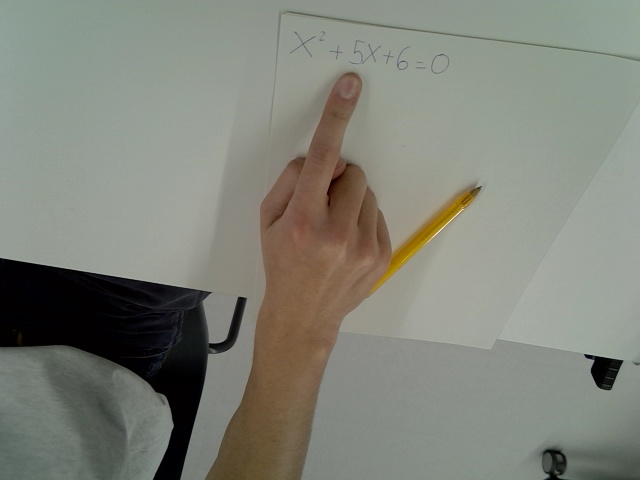
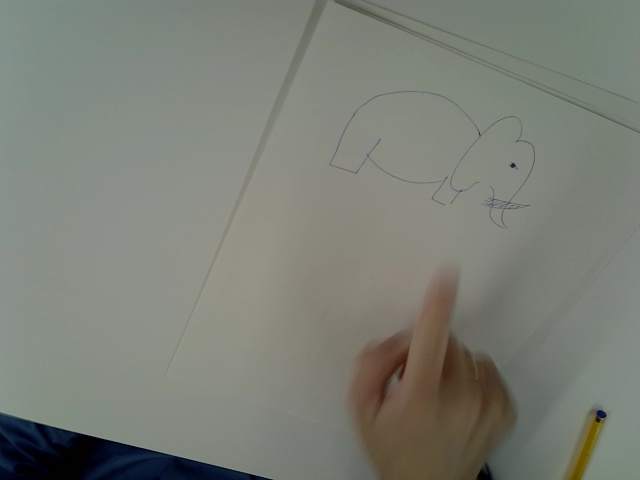
update optitrack markers names

diff --git a/alfred_clever_lamp/src/R1_brodcast_marker.py b/alfred_clever_lamp/src/R1_brodcast_marker.py
@@ -14,9 +14,9 @@ def pose_callback(msg):
 
     t.header.stamp = rospy.Time.now()
     t.header.frame_id = "wx250s/base_link"
-    t.child_frame_id = "umh_0_new"
-    t.transform.translation.x = (msg.pose.position.x-pos_base[0])
-    t.transform.translation.y = (msg.pose.position.y-pos_base[1]) 
+    t.child_frame_id = "AIfred_umh_new"
+    t.transform.translation.x = -(msg.pose.position.x-pos_base[0])
+    t.transform.translation.y = -(msg.pose.position.y-pos_base[1]) 
     t.transform.translation.z = (msg.pose.position.z-pos_base[2]) 
     t.transform.rotation.x = 0.0
     t.transform.rotation.y = 0.0
@@ -31,6 +31,6 @@ def base_callback(msg):
 
 if __name__ == '__main__':
     rospy.init_node('tf2_broadcaster')
-    rospy.Subscriber("/natnet_ros/umh_0/pose", PoseStamped, callback=pose_callback, queue_size=1)
-    rospy.Subscriber("/natnet_ros/real_base_wx250s/pose", PoseStamped, callback=base_callback, queue_size=1)
+    rospy.Subscriber("/natnet_ros/AIfred_umh/pose", PoseStamped, callback=pose_callback, queue_size=1)
+    rospy.Subscriber("/natnet_ros/AIfred_real_base_wx250s/pose", PoseStamped, callback=base_callback, queue_size=1)
     rospy.spin()

diff --git a/alfred_clever_lamp/src/CV5_open_urls.py b/alfred_clever_lamp/src/CV5_open_urls.py
@@ -183,7 +183,7 @@ if __name__ == '__main__':
         
         # Subscribe to pose and URL topics
         rospy.Subscriber('/mode', Mode, callback=mode_callback, queue_size=1)
-        rospy.Subscriber("/natnet_ros/umh_0/pose", PoseStamped, callback=pose_callback, queue_size=1)
+        rospy.Subscriber("/natnet_ros/AIfred_umh/pose", PoseStamped, callback=pose_callback, queue_size=1)
         rospy.Subscriber('/urls_to_open', UrlToOpen, callback=urls_callback, queue_size=1)
         
         rospy.spin()

diff --git a/alfred_clever_lamp/src/R2_move_robot.py b/alfred_clever_lamp/src/R2_move_robot.py
@@ -49,7 +49,7 @@ if __name__ == '__main__':
 
     while not rospy.is_shutdown():
         try:
-            trans = tfBuffer.lookup_transform("umh_0_new", "wx250s/base_link", rospy.Time())
+            trans = tfBuffer.lookup_transform("AIfred_umh_new", "wx250s/base_link", rospy.Time())
         except (tf2_ros.LookupException, tf2_ros.ConnectivityException, tf2_ros.ExtrapolationException):
             rate.sleep()
             continue

diff --git a/alfred_clever_lamp/src/CV1_pub_mode.py b/alfred_clever_lamp/src/CV1_pub_mode.py
@@ -30,5 +30,5 @@ if __name__ == '__main__':
     rospy.loginfo(f"Initial mode: {current_mode}")
     mode_pub.publish(mode_msg)
 
-    rospy.Subscriber("/natnet_ros/umh_0/pose", PoseStamped, callback=pose_callback, queue_size=1)
+    rospy.Subscriber("/natnet_ros/AIfred_umh/pose", PoseStamped, callback=pose_callback, queue_size=1)
     rospy.spin()

diff --git a/README.md b/README.md
@@ -52,8 +52,8 @@ To run the code you will need some prerequisites:
 1. Optitrack system: It is a system of camares that detect position and orientation of cetain objects thank to capability of reflection of the ball markers.
 2. Install [natnet_ros_cpp](https://github.com/L2S-lab/natnet_ros_cpp) ros package to send messages from Optitrack to your `roscore`.
 2. Install [interbotics_ws](https://docs.trossenrobotics.com/interbotix_xsarms_docs/ros_interface/ros1/software_setup.html) ros package to move and nteract wth wx250s robot arm from trossenrobotics.
-3. 3D print our [universal marker](https://github.com/IERoboticsAILab/3d_printing_designs/blob/main/files/optitrack/Universal_Marker_3.stl). It is an object that will be easily detected from Optitrack. We call it `umh_0`.
-4. 3D print our [custom wx250s base](https://github.com/IERoboticsAILab/3d_printing_designs/blob/main/files/WX-250_robot_garden/base/bottom_base_WX-250_for%20Optitrack.stl), for the robot arm. It has M3 scrues to host marker balls in place and detect position of robot base. We call it `real_base_wx250s`.
+3. 3D print our [universal marker](https://github.com/IERoboticsAILab/3d_printing_designs/blob/main/files/optitrack/Universal_Marker_3.stl). It is an object that will be easily detected from Optitrack. We call it `AIfred_umh`.
+4. 3D print our [custom wx250s base](https://github.com/IERoboticsAILab/3d_printing_designs/blob/main/files/WX-250_robot_garden/base/bottom_base_WX-250_for%20Optitrack.stl), for the robot arm. It has M3 scrues to host marker balls in place and detect position of robot base. We call it `AIfred_real_base_wx250s`.
 
 <br>
 
@@ -71,9 +71,9 @@ To run the code you will need some prerequisites:
 5. Connect a USB camera to PC and make it point on your working station.
 6. Turn on optitrack:
 
-    **a.** Turn on rigid body for mark base robot (download [here](https://github.com/IERoboticsAILab/3d_printing_designs/blob/main/files/WX-250_robot_garden/base/bottom_base_WX-250_for%20Optitrack.stl) `real_base_wx250s`)
+    **a.** Turn on rigid body for mark base robot (download [here](https://github.com/IERoboticsAILab/3d_printing_designs/blob/main/files/WX-250_robot_garden/base/bottom_base_WX-250_for%20Optitrack.stl) `AIfred_real_base_wx250s`)
 
-    **b.** Turn on rigid body for universal marker (download [here](https://github.com/IERoboticsAILab/3d_printing_designs/blob/main/files/optitrack/Universal_Marker_3.stl)`umh_0`)
+    **b.** Turn on rigid body for universal marker (download [here](https://github.com/IERoboticsAILab/3d_printing_designs/blob/main/files/optitrack/Universal_Marker_3.stl)`AIfred_umh`)
 
 
 #### Install software
@@ -146,7 +146,7 @@ The launch file will execute all the necessary nodes to have the full demo runni
 
 3. Make robot follow and point on the marker.
 
-    a. `brodcast marker`: This section of the project combine digital space wit real word with a user frendly interface. In RViz the robot is set in (0,0,0) that is the word cordinate space. But in the reality the robot is in a diffrent position in space (it depends where you position the working table). Here we take the Optitrack cordinates of the real robot base (`/natnet_ros/real_base_wx250s/pose`) in relation with the real marker (`/natnet_ros/umh_2/pose`), and we transform that relation with the digital robot base (`wx250s/base_link`), publishing a new tf for the marker (`umh_2_new`)
+    a. `brodcast marker`: This section of the project combine digital space wit real word with a user frendly interface. In RViz the robot is set in (0,0,0) that is the word cordinate space. But in the reality the robot is in a diffrent position in space (it depends where you position the working table). Here we take the Optitrack cordinates of the real robot base (`/natnet_ros/AIfred_real_base_wx250s/pose`) in relation with the real marker (`/natnet_ros/umh_2/pose`), and we transform that relation with the digital robot base (`wx250s/base_link`), publishing a new tf for the marker (`umh_2_new`)
 
     b. `clever lamp`: Look at the tf transformation of the universal marker position relative to the digital space and move end effector accordingly.
 
